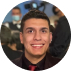
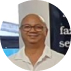
finalizando coordenação e footer

diff --git a/index.html b/index.html
@@ -138,31 +138,37 @@
 
       <div class="cards-coordenadores">
         <div class="card-coordenador">
-          <p>Lorem ipsum dolor sit amet consectetur adipisicing elit. Unde fuga nobis natus. Error animi magnam nostrum
-          </p>
+          <p>Vice-diretor, responsável pela administração e apoio às atividades educacionais.</p>
           <div class="foto_pessoa">
-            <img src="./assets/c1.jpg" alt="Foto de (Tal pessoa)">
-            <span>Wagner Terra</span>
+            <img src="./assets/c1.jpg" alt="Foto de Paulo Sérgio de Siqueira">
+            <span>Paulo Sérgio de Siqueira</span>
           </div>
         </div>
 
         <div class="card-coordenador">
-          <p>Lorem ipsum dolor sit amet consectetur adipisicing elit. Unde fuga nobis natus. Error animi magnam nostrum
-          </p>
+          <p>Diretor, líder principal da instituição, orientando a visão e as operações gerais.</p>
           <div class="foto_pessoa">
-            <img src="./assets/c2.jpg" alt="Foto de (Tal pessoa)">
-            <span>Paulo Henrique</span>
+            <img src="./assets/c2.jpg" alt="Foto de Elias Granato Neto">
+            <span>Elias Granato Neto</span>
           </div>
         </div>
 
         <div class="card-coordenador">
-          <p>Lorem ipsum dolor sit amet consectetur adipisicing elit. Unde fuga nobis natus. Error animi magnam nostrum
-          </p>
+          <p>Supervisora da manhã, focada na organização e supervisão das atividades matutinas.</p>
           <div class="foto_pessoa">
-            <img src="./assets/c3.jpg" alt="Foto de (Tal pessoa)">
-            <span>Pedro Magalhães</span>
+            <img src="./assets/c3.jpg" alt="Foto de Patrícia Lima de Oliveira Silva">
+            <span>Patrícia Lima de Oliveira Silva</span>
           </div>
         </div>
+
+        <div class="card-coordenador">
+          <p>Supervisora da tarde, responsável pela coordenação das atividades vespertinas.</p>
+          <div class="foto_pessoa">
+            <img src="./assets/c4.jpg" alt="Foto de Glaucia Begali Leite">
+            <span>Glaucia Begali Leite</span>
+          </div>
+        </div>
+
       </div>
     </section>
 
@@ -192,8 +198,7 @@
           <li><a href="#sobre_nos">Sobre nós</a></li>
           <li><a href="#cursos">Cursos</a></li>
           <li><a href="#coordenacao">Coordenação</a></li>
-          <li><a href="#eventos">Eventos</a></li>
-          <li><a href="#blog">Blog</a></li>
+          <li><a href="/pages/projects.html">Eventos</a></li>
         </ul>
       </div>
 
@@ -201,13 +206,10 @@
         <h5>Contato</h5>
         <ul>
           <li>
-            <p>(33) 3535-3515</p>
+            <p>(35) 3295-5097</p>
           </li>
           <li>
-            <p>contato@exemplo.com</p>
-          </li>
-          <li>
-            <p>Rua Exemplo, 123, Bairro Centro, Cidade/UF</p>
+            <p>R. Artur P. Caixeta, 235 - Machado, MG, 37750-000</p>
           </li>
         </ul>
       </div>
@@ -215,19 +217,16 @@
       <div>
         <h5>Redes Sociais</h5>
         <ul>
-          <li><a href="https://www.facebook.com/exemplo" target="_blank">Facebook</a></li>
-          <li><a href="https://www.twitter.com/exemplo" target="_blank">Twitter</a></li>
-          <li><a href="https://www.instagram.com/exemplo" target="_blank">Instagram</a></li>
+          <li><a href="https://www.facebook.com/profile.php?id=100073560335444&locale=pt_BR"
+              target="_blank">Facebook</a></li>
+          <li><a href="https://www.instagram.com/paulinarigotti/" target="_blank">Instagram</a></li>
         </ul>
       </div>
 
       <div>
-        <h5>Newsletter</h5>
-        <p>Assine nossa newsletter para receber as últimas novidades.</p>
-        <form action="subscribe.html" method="post">
-          <input type="email" name="email" placeholder="Seu email">
-          <button type="submit">Assinar</button>
-        </form>
+        <h5>Informações Adicionais</h5>
+        <p>Atendemos de segunda a sexta, das 9h às 18h.</p>
+        <p>Nossa missão é fornecer educação de qualidade acessível a todos.</p>
       </div>
     </footer>
   </div>

diff --git a/pages/projects.html b/pages/projects.html
@@ -56,8 +56,8 @@
 
   <main>
     <section class="projects-header">
-      <h2>Projetos</h2>
-      <p class="subtitle">Projetos e Atividades</p>
+      <h2>Eventos</h2>
+      <p class="subtitle">Eventos e Atividades</p>
     </section>
 
     <div class="project-list"></div>
@@ -72,8 +72,7 @@
           <li><a href="#sobre_nos">Sobre nós</a></li>
           <li><a href="#cursos">Cursos</a></li>
           <li><a href="#coordenacao">Coordenação</a></li>
-          <li><a href="#eventos">Eventos</a></li>
-          <li><a href="#blog">Blog</a></li>
+          <li><a href="/pages/projects.html">Eventos</a></li>
         </ul>
       </div>
 
@@ -81,13 +80,10 @@
         <h5>Contato</h5>
         <ul>
           <li>
-            <p>(33) 3535-3515</p>
+            <p>(35) 3295-5097</p>
           </li>
           <li>
-            <p>contato@exemplo.com</p>
-          </li>
-          <li>
-            <p>Rua Exemplo, 123, Bairro Centro, Cidade/UF</p>
+            <p>R. Artur P. Caixeta, 235 - Machado, MG, 37750-000</p>
           </li>
         </ul>
       </div>
@@ -95,19 +91,16 @@
       <div>
         <h5>Redes Sociais</h5>
         <ul>
-          <li><a href="https://www.facebook.com/exemplo" target="_blank">Facebook</a></li>
-          <li><a href="https://www.twitter.com/exemplo" target="_blank">Twitter</a></li>
-          <li><a href="https://www.instagram.com/exemplo" target="_blank">Instagram</a></li>
+          <li><a href="https://www.facebook.com/profile.php?id=100073560335444&locale=pt_BR"
+              target="_blank">Facebook</a></li>
+          <li><a href="https://www.instagram.com/paulinarigotti/" target="_blank">Instagram</a></li>
         </ul>
       </div>
 
       <div>
-        <h5>Newsletter</h5>
-        <p>Assine nossa newsletter para receber as últimas novidades.</p>
-        <form action="subscribe.html" method="post">
-          <input type="email" name="email" placeholder="Seu email">
-          <button type="submit">Assinar</button>
-        </form>
+        <h5>Informações Adicionais</h5>
+        <p>Atendemos de segunda a sexta, das 9h às 18h.</p>
+        <p>Nossa missão é fornecer educação de qualidade acessível a todos.</p>
       </div>
     </footer>
   </div>

diff --git a/styles/main.css b/styles/main.css
@@ -95,8 +95,8 @@
 
   & h2 {
     font: var(--title-md);
-    margin-top: 135px;
-    margin-bottom: 61px;
+    margin-top: 64px;
+    margin-bottom: 64px;
     color: var(--base-blue);
   }
 
@@ -104,6 +104,7 @@
 
   & .cards-coordenadores {
     display: flex;
+    gap: 64px;
 
     & .card-coordenador {
       display: flex;
@@ -130,10 +131,6 @@
   }
 }
 
-.cards-coordenadores .card-coordenador:nth-child(1),
-.cards-coordenadores .card-coordenador:nth-child(3) {
-  margin-top: 22px;
-}
 
 #matricular {
   display: flex;

diff --git a/styles/header.css b/styles/header.css
@@ -33,6 +33,7 @@
      align-items: center;
 
      h1 {
+       margin-top: 128px;
        font: var(--title-lg);
      }
 
